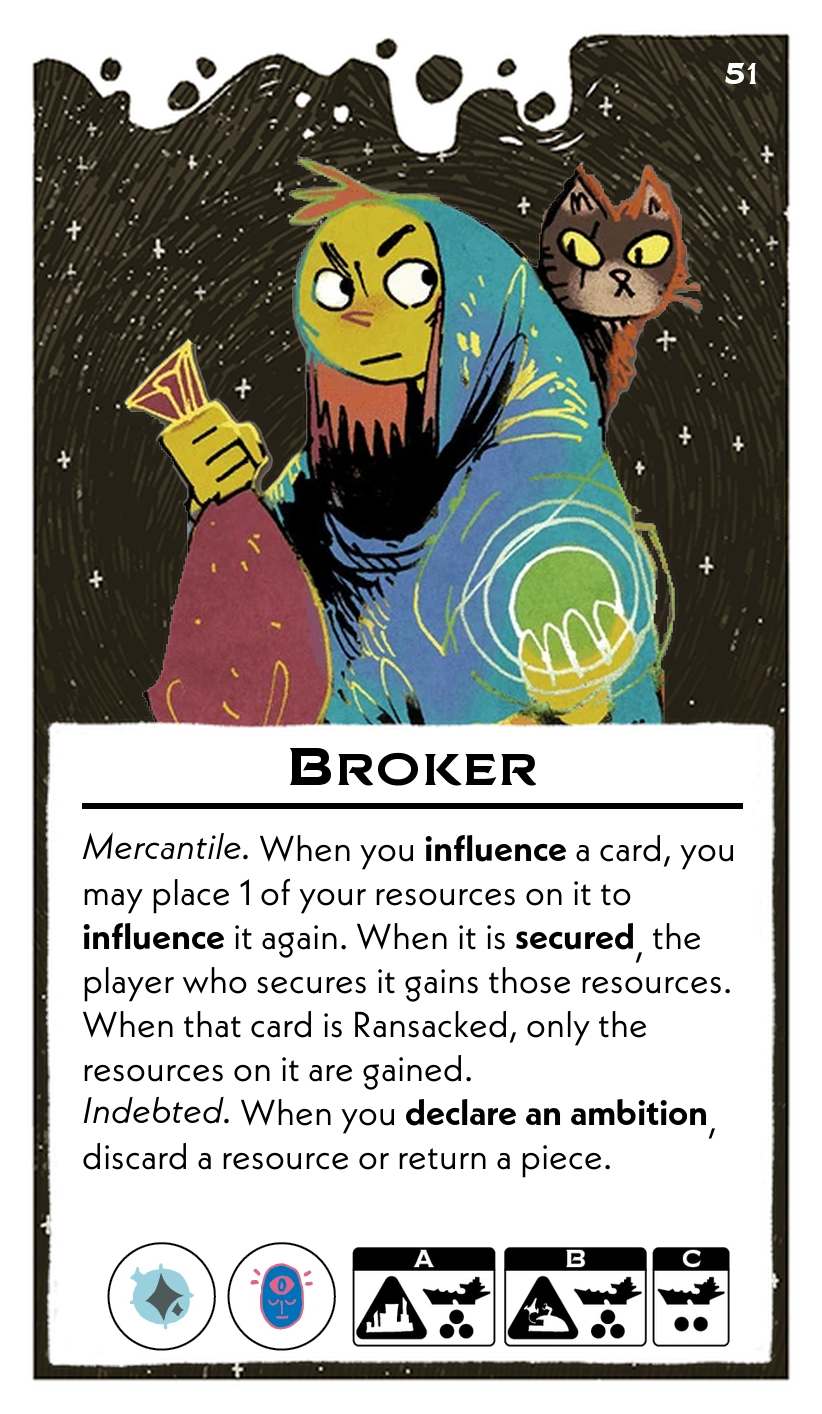
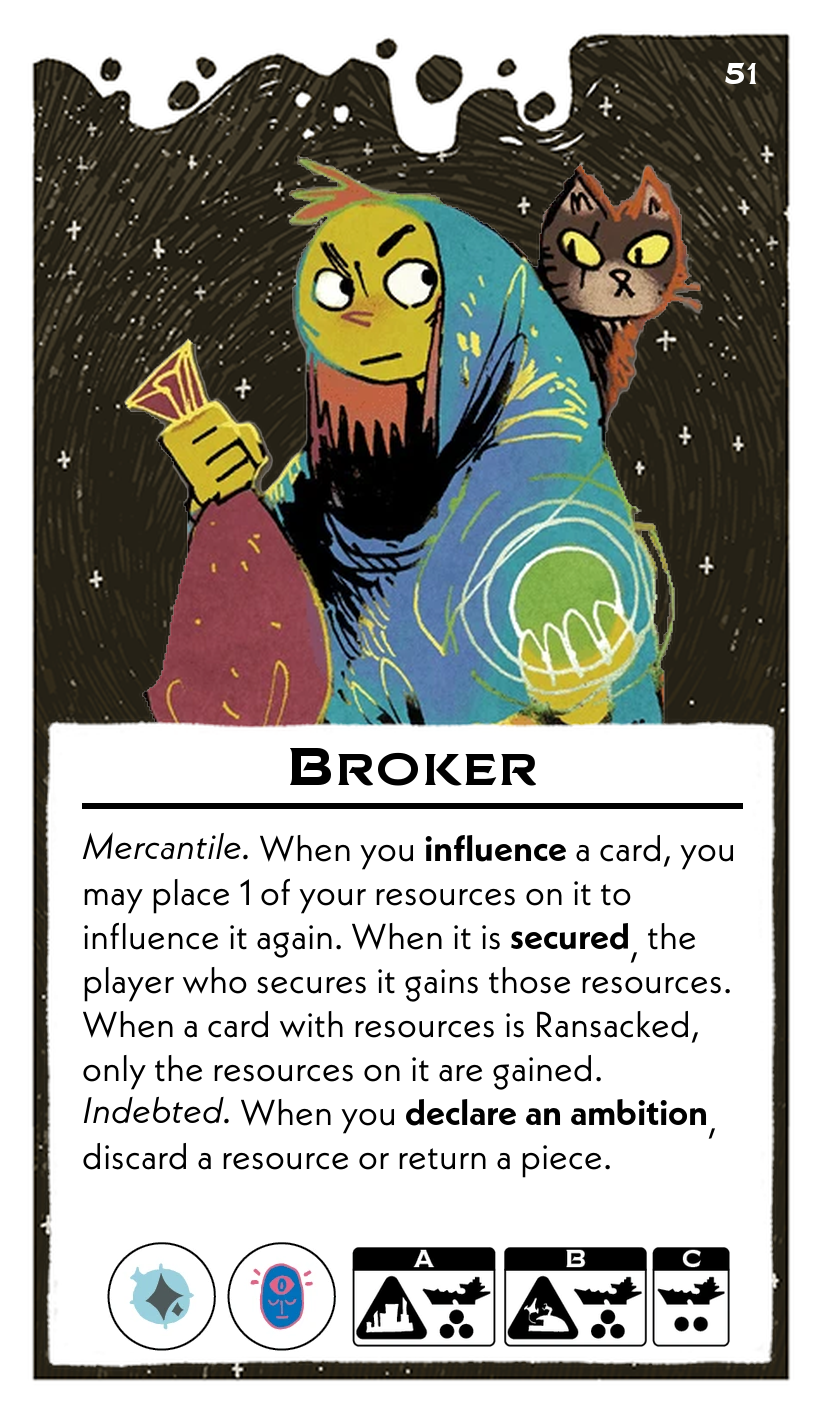
broker

Changed region(s): [[0.0912, 0.7157, 0.8516, 0.7779], [0.0912, 0.6535, 0.8516, 0.6846]]

diff --git a/scripts/leadersFormatted.py b/scripts/leadersFormatted.py
@@ -784,7 +784,7 @@ leaders = [
     {
         "name": "Broker",
         "abilities": (
-            "*Mercantile.* When you **influence** a card, you may place 1 of your resources on it to **influence** it again. When it is **secured**, the player who secures it gains those resources. When that card is Ransacked, only the resources on it are gained.\n"
+            "*Mercantile.* When you **influence** a card, you may place 1 of your resources on it to influence it again. When it is **secured**, the player who secures it gains those resources. When a card with resources is Ransacked, only the resources on it are gained.\n"
             "*Indebted.* When you **declare** **an** **ambition**, discard a resource or return a piece."
         ),
         "resources": ["Relic", "Psionic"],
